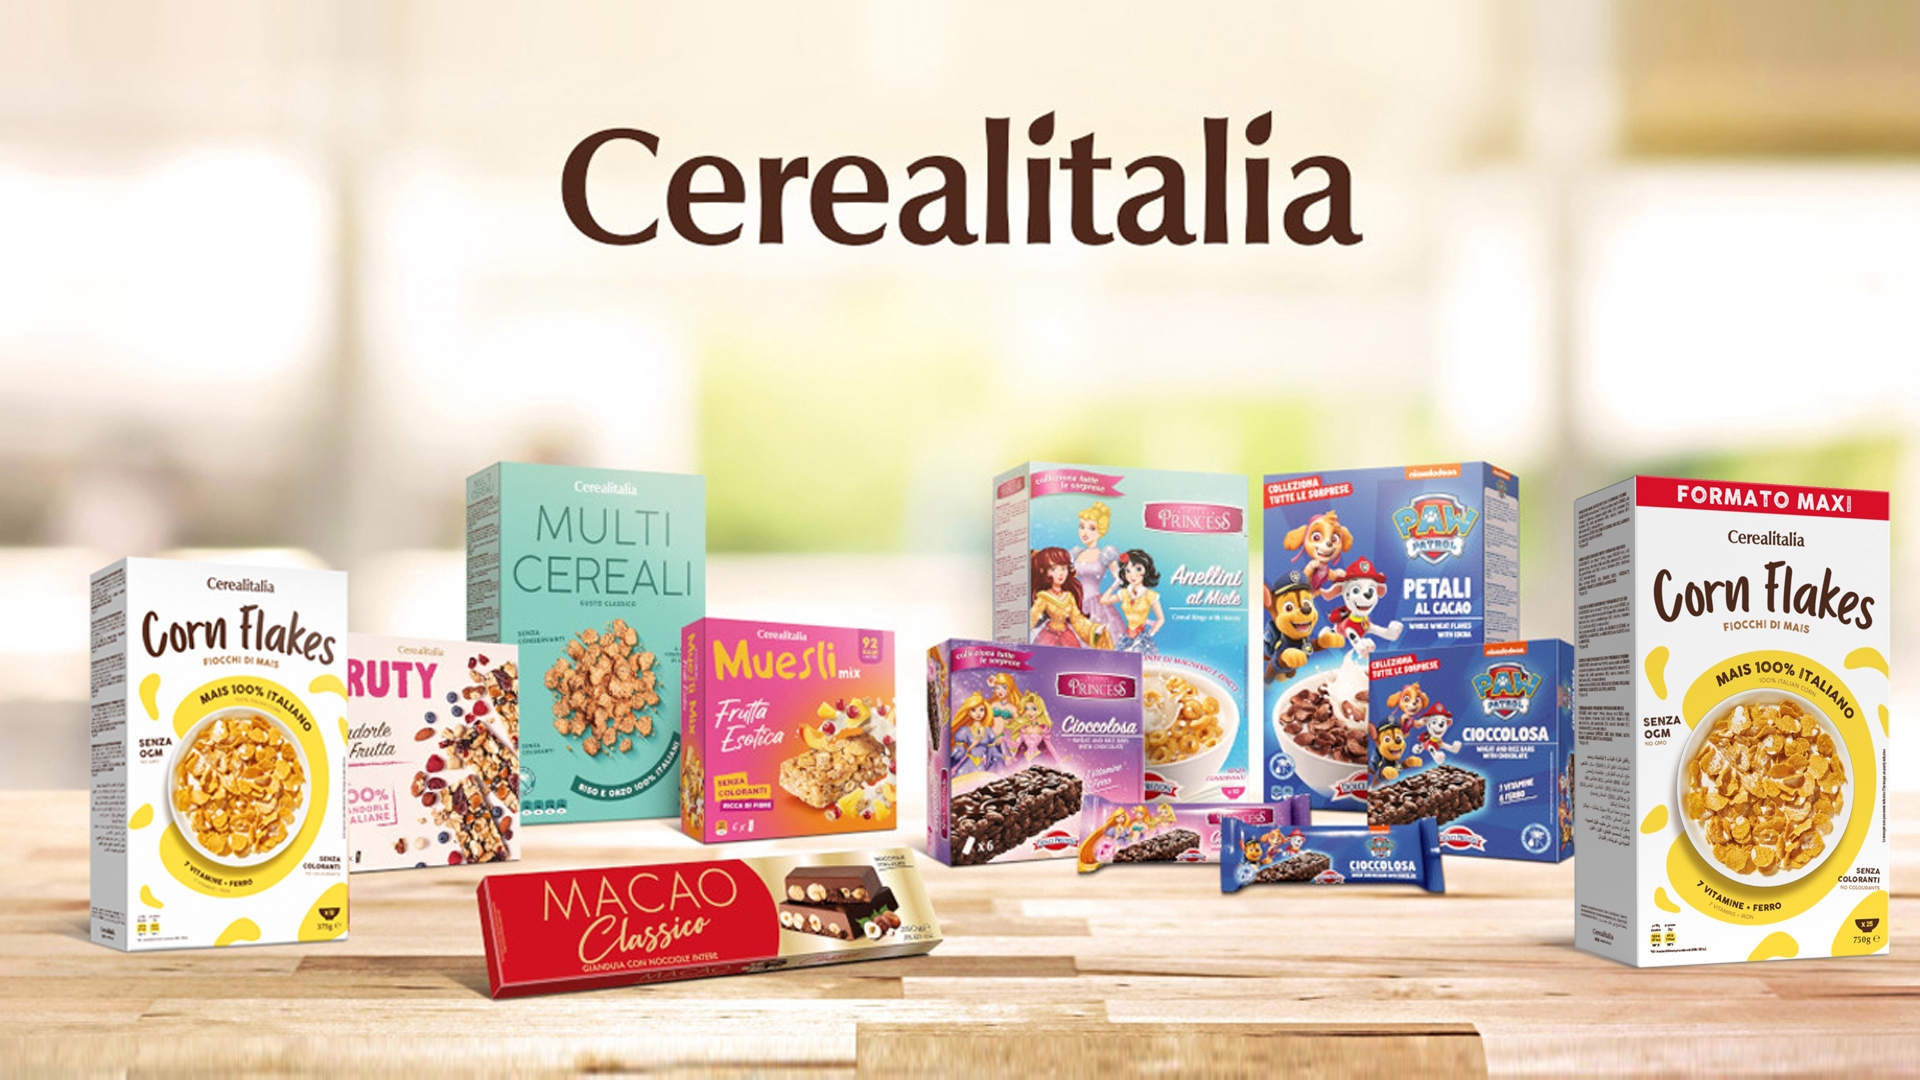
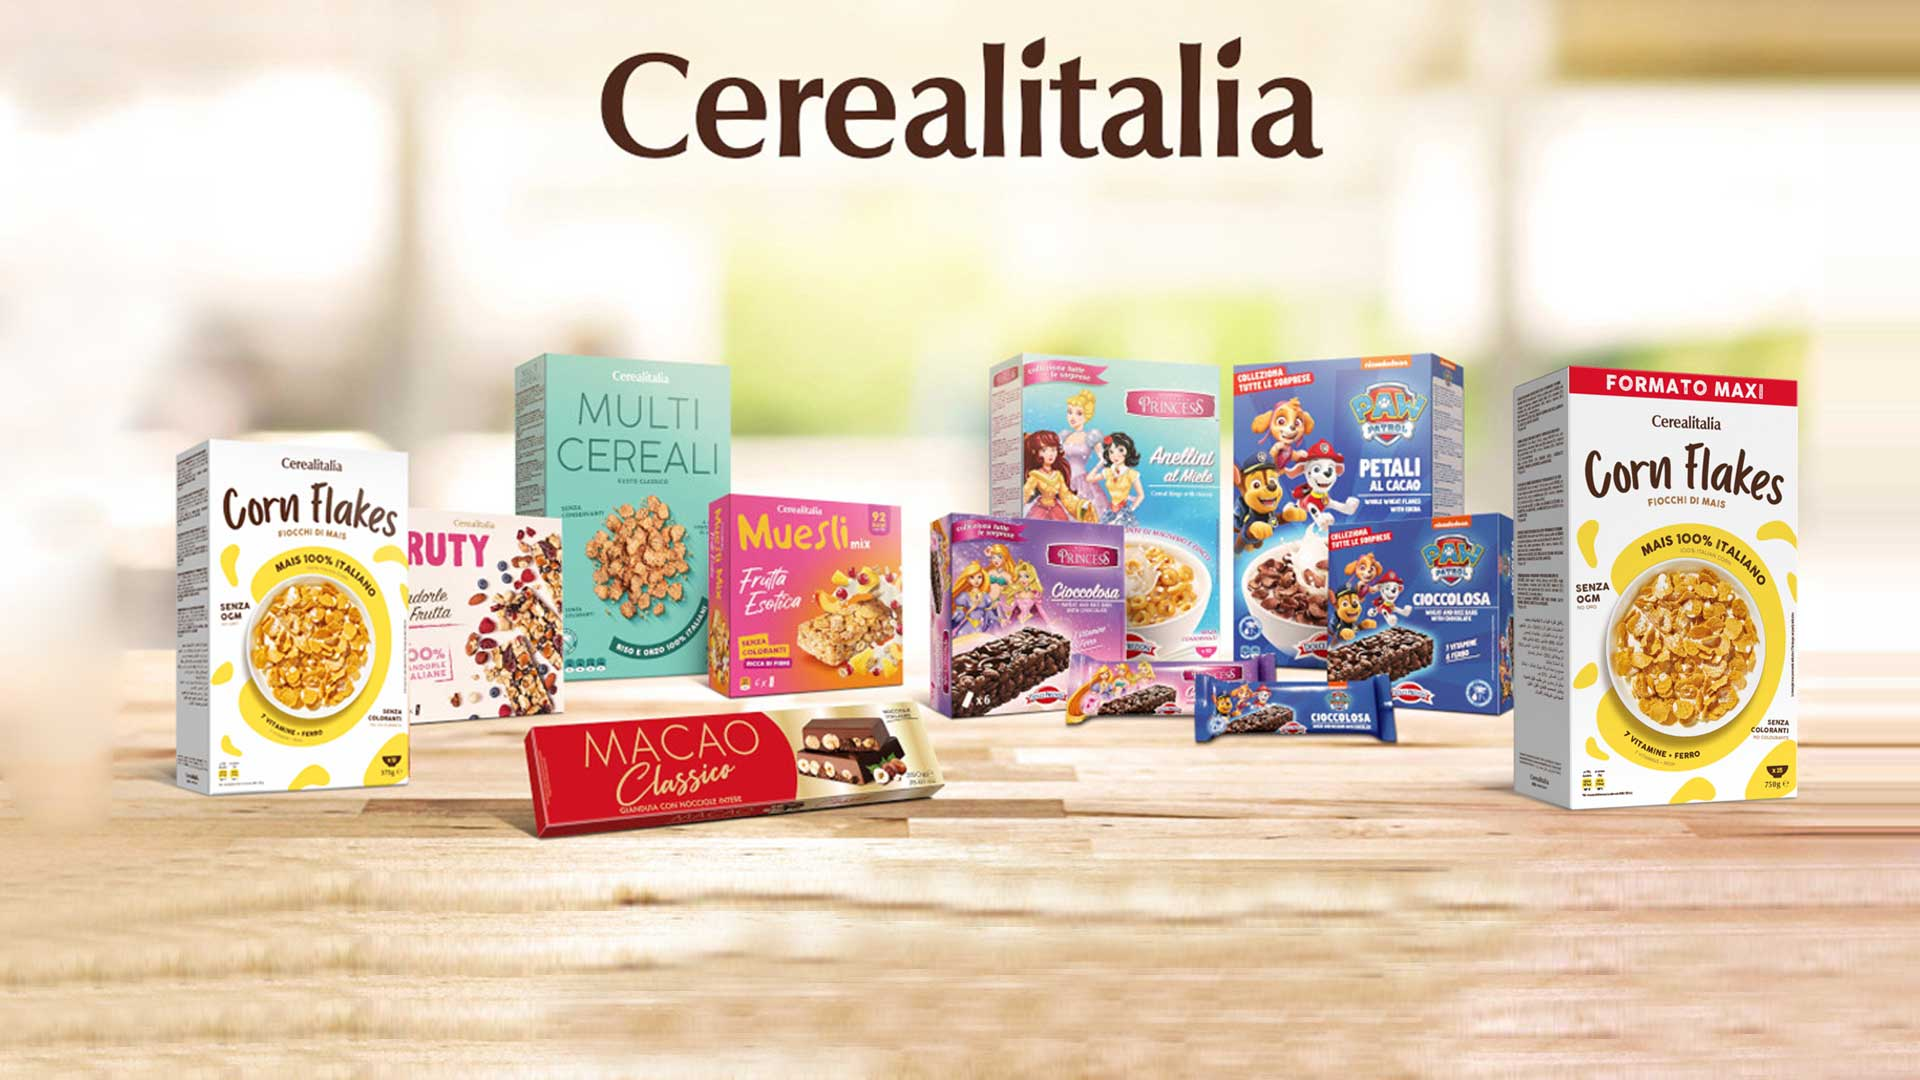
Update slider images and improve index.html styles
Replaced several slide images with updated versions and enhanced the slider's CSS for better aspect ratio and layout. Adjusted the Go Coffee column styling, removed redundant business hours from the contact section, and improved overall layout consistency.

diff --git a/html/index.html b/html/index.html
@@ -27,13 +27,16 @@
     .my-slider-wrapper {
       margin:0 auto 0 auto;
       width:100%;
-  	  height:100vh;
+	  height: 100dvh;
+	  position: relative;
+	  overflow: hidden;
     }
 
     /* Scope styles under .my-slider */
     .my-slider .slides img {
-      width: 100%;
-      height: 90vmin;
+      width:100%;
+	  height: 110vh;
+	  aspect-ratio: 16 / 9;
       display: block;
 	  margin: 113px 0 0 0 !important;
     }
@@ -156,7 +159,7 @@
 						<div class="col-3"><img src="images/cerealitalia.png" alt=""></div>
 						<div class="col-3"><img src="images/hosta.png" alt=""></div>
 						<div class="col-3"><img src="images/trento.png" alt=""></div>
-						<div class="col-3"><img src="images/go_caffe.png" alt=""></div>
+						<div class="col-3" style="background: #b4a099; text-align: center;"><img src="images/go_caffe.png" alt=""></div>
 
 						<div class="col-3"><h6 class="fs-16">ITALY</h6></div>
 						<div class="col-3"><h6 class="fs-16">GERMANY &amp; ITALY</h6></div>
@@ -519,17 +522,6 @@
 										</div>
 										<p>
 											Hawalli, Block 4, Al Muthanna Street, 6th Floor, Yasmin Center
-										</p>
-									</li>
-
-									<li class="icon-inline">
-										<div class="icon-styled icon-top bordered round  fs-16">
-											<i class="fas fa-clock"></i>
-										</div>
-										<p>
-											Sun - Wed: 9am - 4pm<br>
-											Thu: 9am - 3pm<br>
-											Fri - Sat: off
 										</p>
 									</li>
 								</ul>
